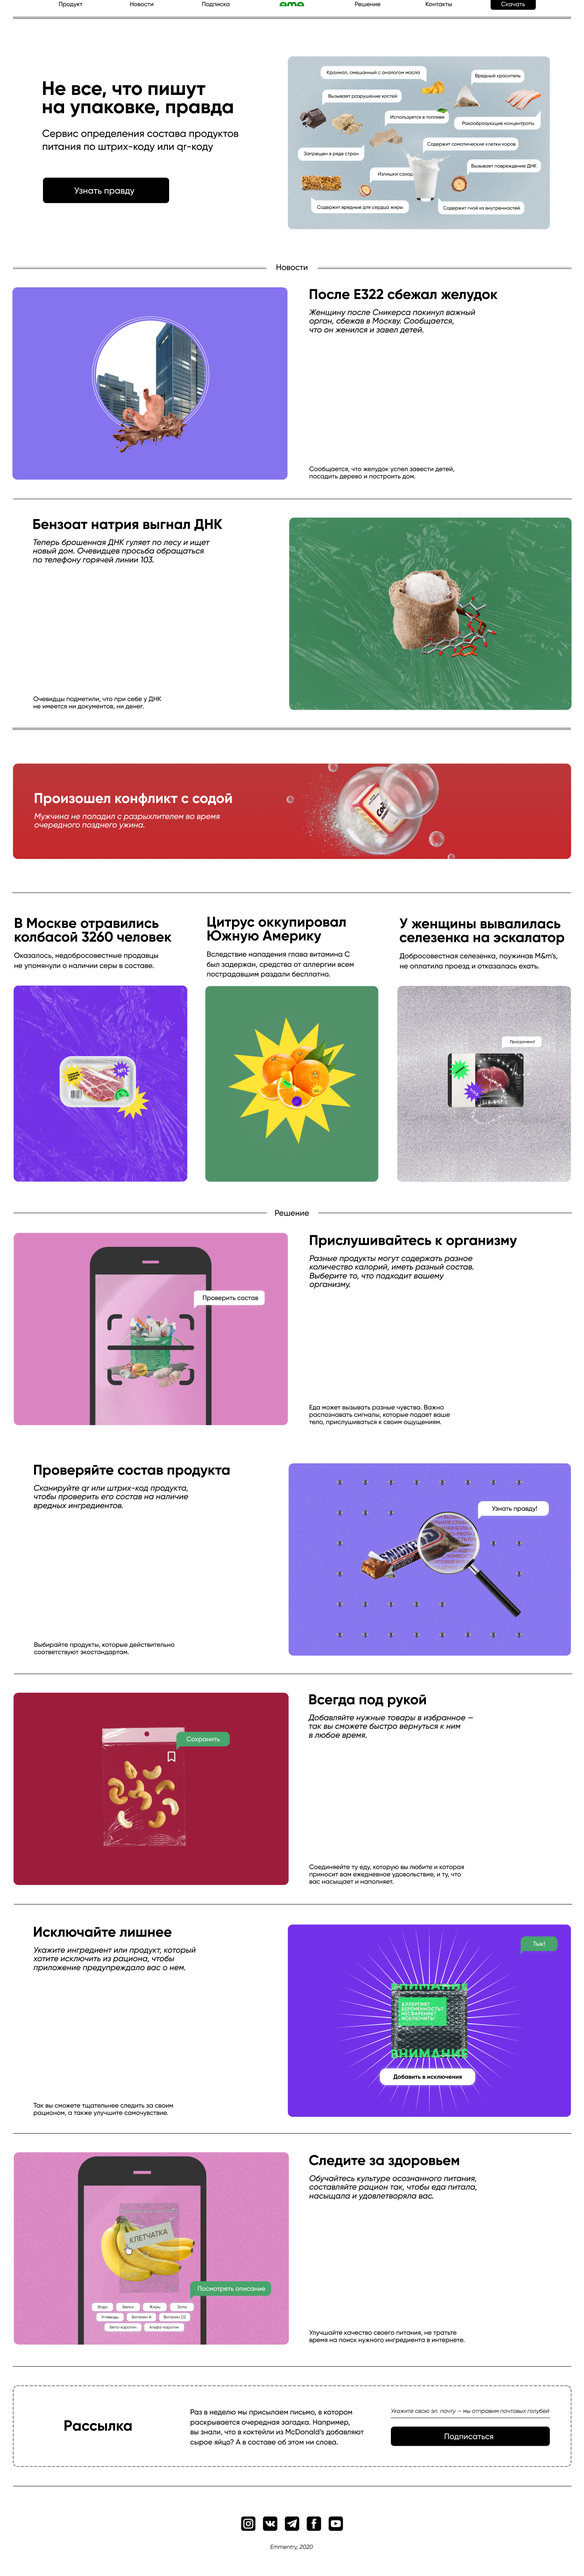
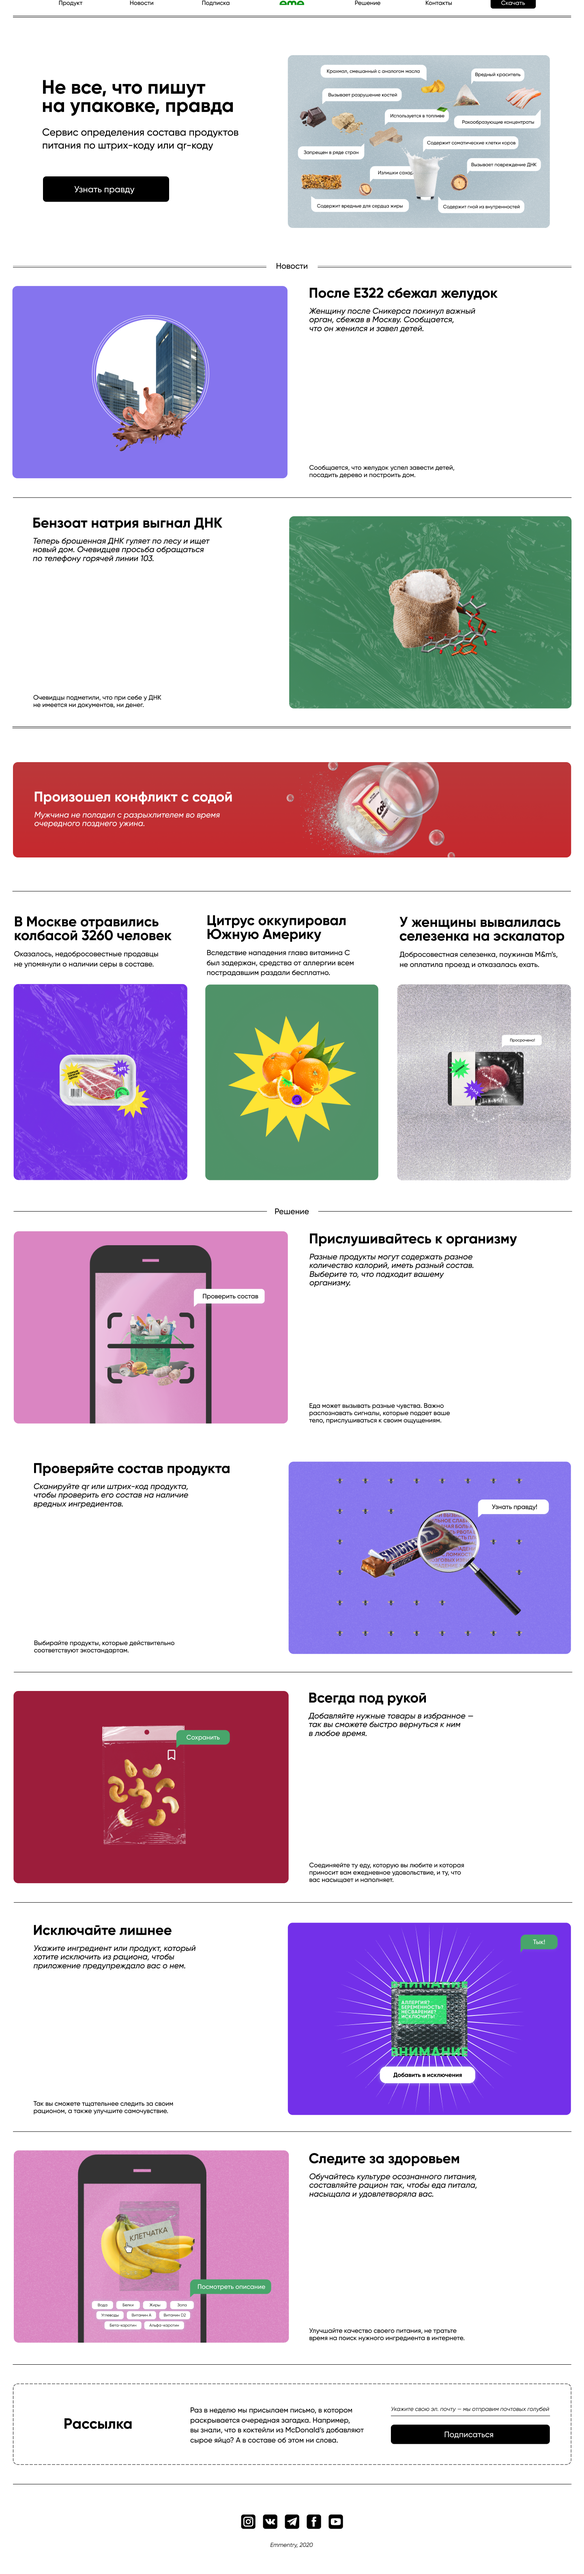
add footer

diff --git a/styles/style.css b/styles/style.css
@@ -9,6 +9,7 @@ body {
 }
 
 .header {
+  z-index: 9;
   display: flex;
   position: fixed;
   background-color: #FFF;
@@ -20,6 +21,41 @@ body {
   padding-top: 17px;
   padding-left: 120px;
   padding-right: 130px;
+}
+
+.social {
+  display: flex;
+  justify-content: center;
+}
+
+.main_information {
+  display: flex;
+  justify-content: center;
+  padding-top: 26px;
+  padding-bottom: 42px;
+  font-weight: 400;
+  font-style: italic;
+  font-size: 14.5px;
+}
+
+.instagram {
+  padding: 10px;
+}
+
+.vk {
+  padding: 10px;
+}
+
+.facebook {
+  padding: 10px;
+}
+
+.telegram {
+  padding: 10px;
+}
+
+.youtube {
+  padding: 10px;
 }
 
 .wrap {
@@ -116,7 +152,7 @@ h2 {
   font-weight: 500;
   margin-left: 576px;
   margin-top: -39px;
-  z-index: 9;
+  z-index: 8;
   position: absolute;
 }
 
@@ -134,7 +170,7 @@ h4 {
   margin-left: -25px;
   margin-top: 135px;
   position: absolute;
-  z-index: 9;
+  z-index: 8;
 }
 
 h5 {
@@ -142,7 +178,7 @@ h5 {
   font-weight: 500;
   margin-left: 574px;
   margin-top: -14px;
-  z-index: 9;
+  z-index: 8;
   position: absolute;
 }
 
@@ -243,7 +279,7 @@ h5 {
   font-size: 18px;
   line-height: 24.5px;
   font-weight: 500;
-  margin-left: 880px;
+  margin-left: 879px;
   margin-top: 19px;
 }
 
@@ -488,6 +524,15 @@ h5 {
   width: 1380px;
 }
 
+#line_17 {
+  border-top: 1px solid #000;
+  margin-top: 178px;
+margin-left: 5px;
+margin-bottom: 65px;
+  margin-right: 1px;
+  width: 1380px;
+}
+
 .img_first {
   margin-top: -342px;
   margin-left: 605px;
@@ -570,6 +615,23 @@ h5 {
   margin-top: -33px;
 }
 
+/*
+.subscribe {
+  width: auto;
+  max-width: 1300px;
+  display: block;
+  margin-right: auto;
+  margin-left: auto;
+  padding-left: 64px;
+  padding-right: 64px;
+  min-height: 100px;
+    position: relative;
+    padding: 18px 24px 24px;
+    border: 2px dashed #000;
+    margin: 30px 0 38px;
+    border-radius: 8px;
+} */
+
 @font-face {
   font-family: 'Gilroy';
   src: url('Gilroy-Regular.eot');
@@ -629,16 +691,3 @@ h5 {
   font-weight: normal;
   font-style: italic;
 }
-
-/*
-h2 {
-  font-size: 32px;
-}
-
-h3 {
-  font-size: 36.5px;
-}
-
-h1, h2, h3 {
-  font-weight: bold;
-} */

diff --git a/index.html b/index.html
@@ -166,11 +166,42 @@
 
 
     </div>
+    <div class="container">
+      <div class="subscribe">
+        <div class="row">
+          <h6>Рассылка</h6>
+          <p class="subscribe_description">Раз в неделю мы присылаем письмо, в котором <br>раскрывается очередная загадка. Например, <br> вы знали, что в коктейли из McDonald’s добавляют <br>сырое яйцо? А в составе об этом ни слова.</p>
+
+        </div>
+
+      </div>
+
+    </div>
   </div>
   </div>
-  <!-- <footer>
-  <img src="img/bg.png" alt="">
-</footer> -->
+
+
+
+
+
+
+  <footer>
+
+    <div class="footer_content">
+      <div id="line_17"></div>
+
+    <div class="social">
+
+  <img src="img/instagram.svg" class="instagram" alt="">
+  <img src="img/vk.svg" class="vk" alt="">
+  <img src="img/telegram.svg" class="telegram" alt="">
+  <img src="img/facebook.svg" class="facebook" alt="">
+  <img src="img/youtube.svg" class="youtube" alt="">
+
+      </div>
+      <p class="main_information">Emmentry, 2020</p>
+      </div>
+</footer>
 </body>
 
 </html>
